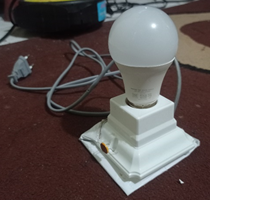
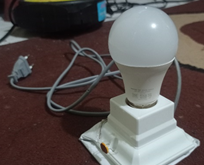
update

diff --git a/components/projects-section.tsx b/components/projects-section.tsx
@@ -31,7 +31,7 @@ const projects = [
     title: "RFID IoT Attendance System",
     description:
       "Sistem absensi pintar berbasis RFID dan IoT dengan penyimpanan data otomatis dan monitoring online.",
-    image: "/projects/rfid-attendance.jpg",
+    image: "/gallery/rfid.jpeg",
     tags: ["RFID", "ESP32", "IoT", "Database", "WiFi", "C++"],
   },
   {